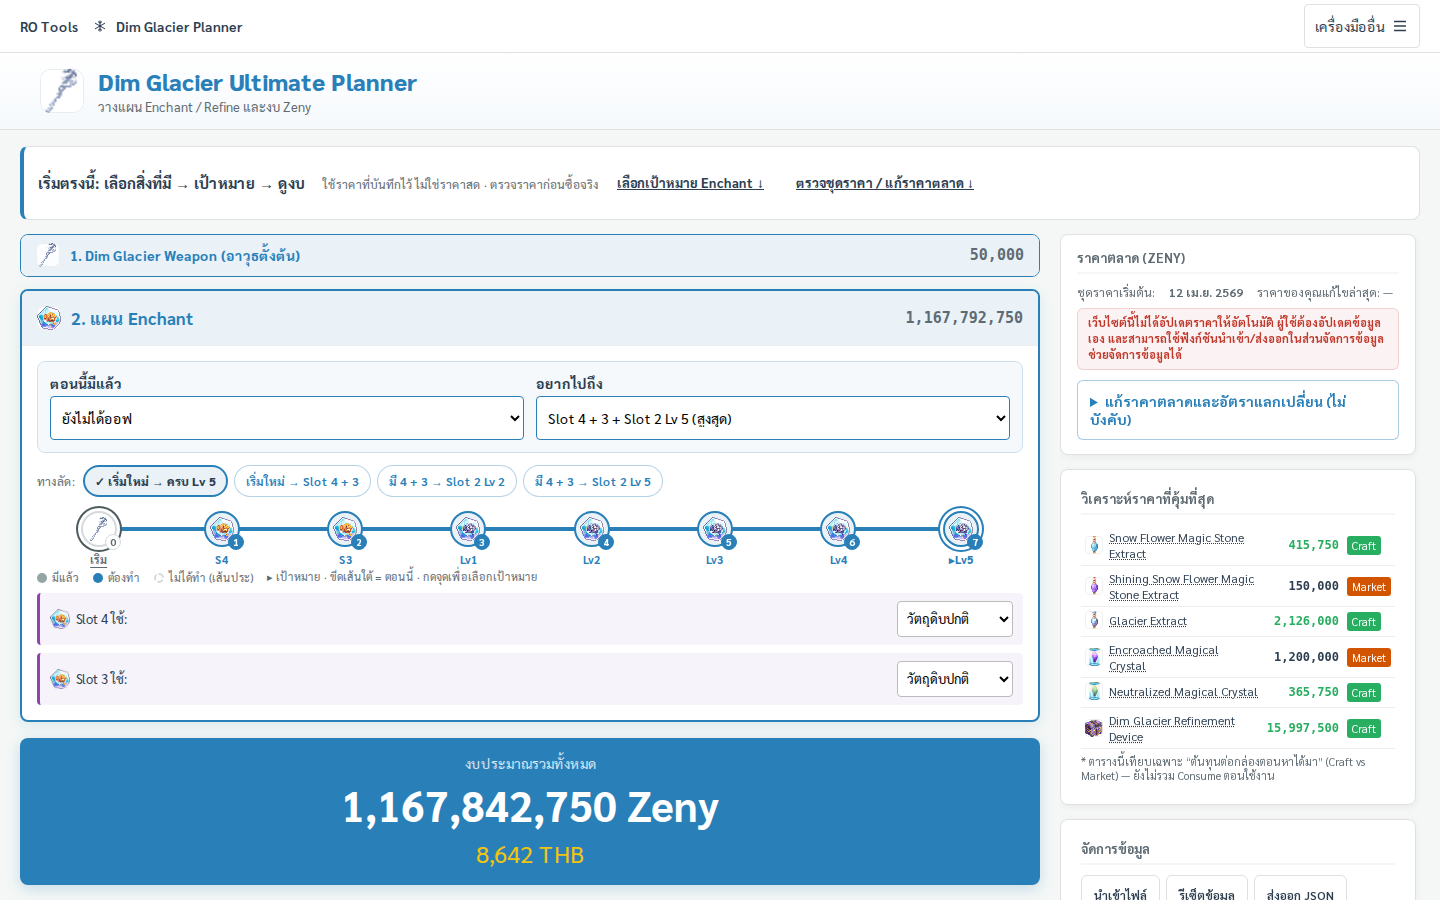
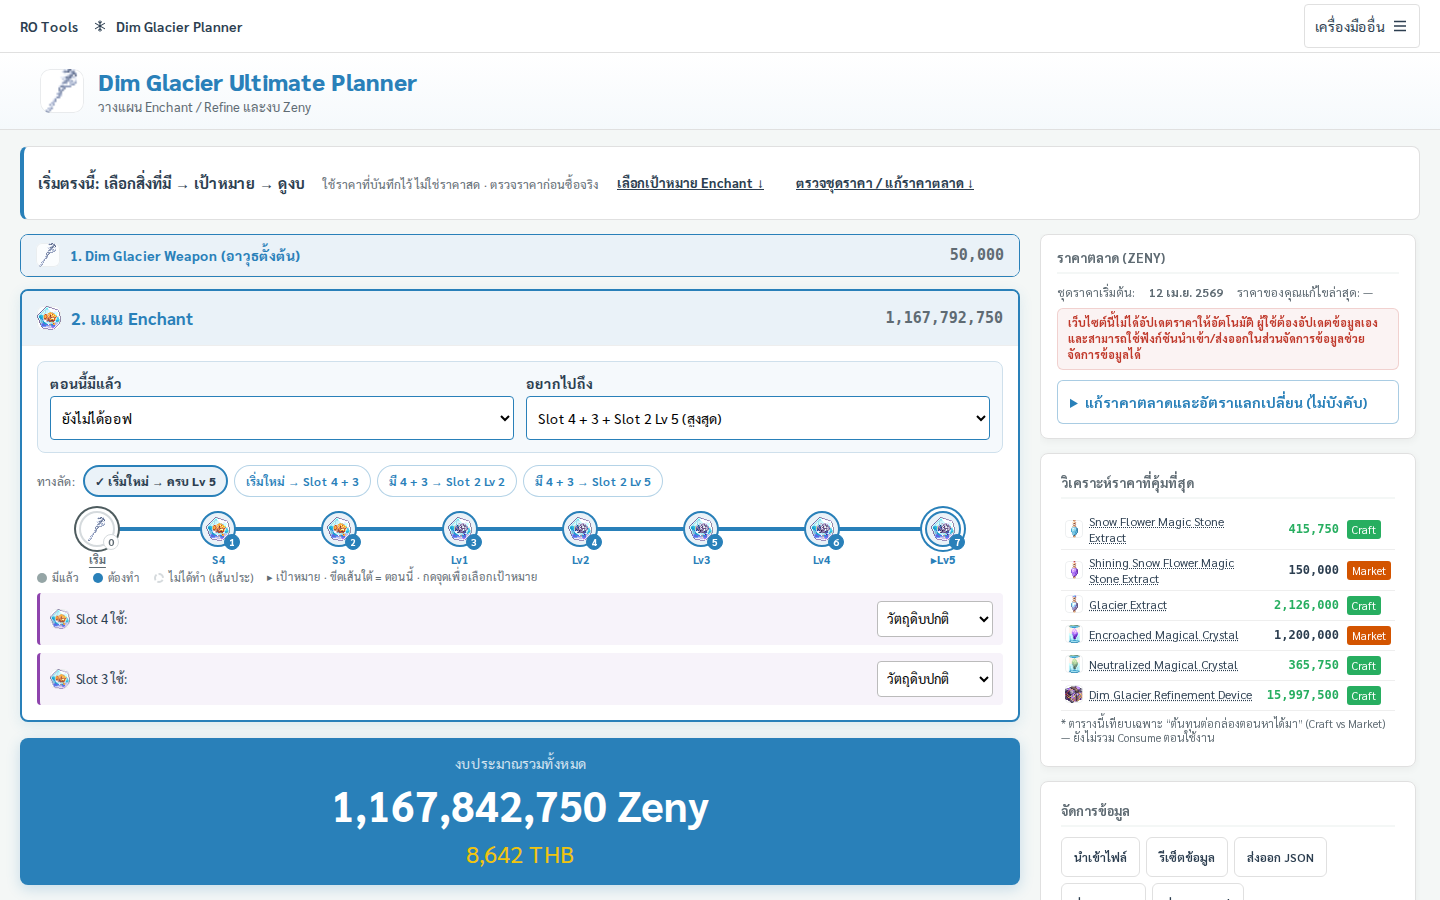
Widen secondary rail to 380px so the price button fits on one line
Claude-Session: https://claude.ai/code/session_01NtBUtWsinKPD7YZ8sp6Py9

diff --git a/index.html b/index.html
@@ -731,7 +731,7 @@
 
     /* desktop: planner + result are the main pair; prices/tools are a narrower secondary rail */
     @media (min-width: 1101px) {
-      .container { grid-template-columns: minmax(0, 1fr) 360px; }
+      .container { grid-template-columns: minmax(0, 1fr) 380px; }
       .container > .first-run-planner { grid-column: 1; }
       .container > .left-col { grid-column: 2; padding-right: 4px; }
     }

diff --git a/qa/ui-cohesion/ui-cohesion.css b/qa/ui-cohesion/ui-cohesion.css
@@ -24,7 +24,7 @@
 
     /* desktop: planner + result are the main pair; prices/tools are a narrower secondary rail */
     @media (min-width: 1101px) {
-      .container { grid-template-columns: minmax(0, 1fr) 360px; }
+      .container { grid-template-columns: minmax(0, 1fr) 380px; }
       .container > .first-run-planner { grid-column: 1; }
       .container > .left-col { grid-column: 2; padding-right: 4px; }
     }

diff --git a/qa/ui-cohesion/REPORT.md b/qa/ui-cohesion/REPORT.md
@@ -11,7 +11,7 @@ Presentation-only pass on top of the first-run flow. No formula, price, storage,
 - Start cue is one compact strip (duplicate "pick 2 fields" line removed; not-live-price line kept). The "#card_plan" skip link is hidden under 1100px where the planner is directly below.
 - Current/target selects sit in a tinted group with larger labels and 44px selects; presets moved under them, outlined and quiet; active preset = tinted + check + 2px border (not fill-only). Mobile presets are a 2×2 grid (3 rows → 2).
 - Stepper states: done = check badge, todo = solid accent, skipped = dashed, current = underlined label, target = `▸` marker; legend updated. Hover scale removed, ring weight reduced, label/badge contrast raised.
-- Desktop columns swapped: planner + result left (main pair), narrow 360px sticky price/tools rail right. Mobile order is unchanged except tools now come after the best-price table.
+- Desktop columns swapped: planner + result left (main pair), narrow 380px sticky price/tools rail right. Mobile order is unchanged except tools now come after the best-price table.
 - Per-card costs are muted (15px); the grand total is the only large figure (`clamp`ed so it never overflows at 360px).
 - Shopping list: columns size to content, cost darkened for contrast, active view toggle has a check mark.
 - Refine: `id="card_refine"` added; neutral border/header and smaller title so it reads as an optional add-on.
